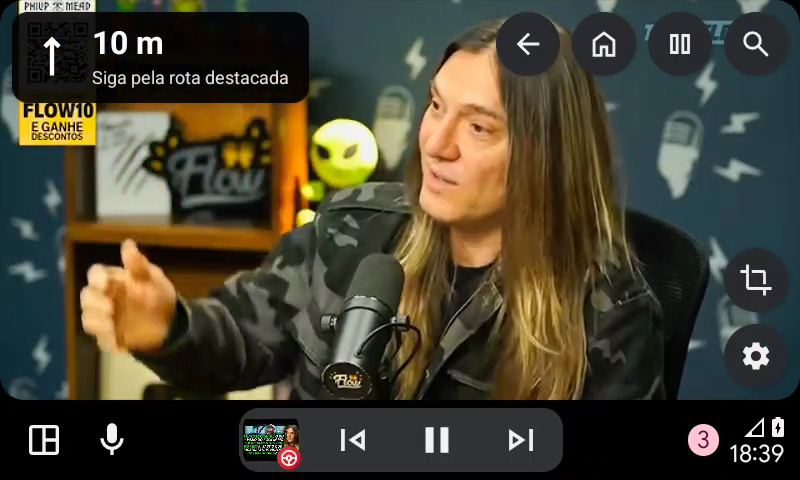
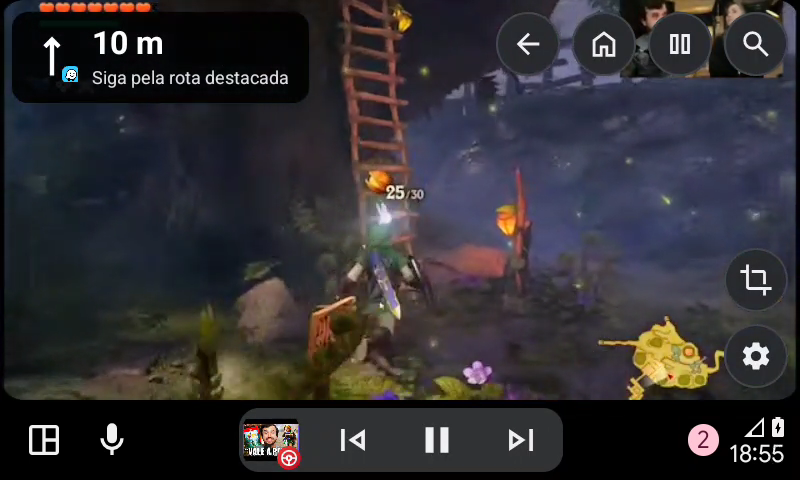
feat: badge the turn card with the app that sends the route
The Waze or Google Maps launcher icon, 18 dp in a black ring, sits on the maneuver icon's bottom corner, so a driver with both apps navigating knows whose instruction it is. New DHU screenshot for the readmes.

diff --git a/app/src/main/java/dev/begati/youtubeauto/YoutubeCarAppService.kt b/app/src/main/java/dev/begati/youtubeauto/YoutubeCarAppService.kt
@@ -845,6 +845,7 @@ class YoutubeScreen(ctx: CarContext) : Screen(ctx), SurfaceCallback {
     private var navView: View? = null
     private var navCard: View? = null
     private var navIcon: android.widget.ImageView? = null
+    private var navBadge: android.widget.ImageView? = null
     private var navDistance: android.widget.TextView? = null
     private var navText: android.widget.TextView? = null
     private var shownTurn: String? = null
@@ -1272,6 +1273,7 @@ class YoutubeScreen(ctx: CarContext) : Screen(ctx), SurfaceCallback {
         navView = null
         navCard = null
         navIcon = null
+        navBadge = null
         navDistance = null
         navText = null
         shownTurn = null
@@ -1454,7 +1456,22 @@ class YoutubeScreen(ctx: CarContext) : Screen(ctx), SurfaceCallback {
                 setColor(0xE0000000.toInt())
             }
             elevation = dp(4).toFloat()
-            addView(android.widget.ImageView(ctx).also { navIcon = it }, android.widget.LinearLayout.LayoutParams(dp(52), dp(52)).apply {
+            addView(FrameLayout(ctx).apply {
+                addView(android.widget.ImageView(ctx).also { navIcon = it }, FrameLayout.LayoutParams(dp(52), dp(52)))
+                // Source badge: 18 dp app icon in a 2 dp ring of the card's color, so it reads apart from the arrow.
+                addView(android.widget.ImageView(ctx).also { navBadge = it }.apply {
+                    visibility = View.GONE
+                    setPadding(dp(2), dp(2), dp(2), dp(2))
+                    background = android.graphics.drawable.GradientDrawable().apply {
+                        shape = android.graphics.drawable.GradientDrawable.OVAL
+                        setColor(0xFF000000.toInt())
+                    }
+                }, FrameLayout.LayoutParams(dp(22), dp(22), android.view.Gravity.BOTTOM or android.view.Gravity.END).apply {
+                    rightMargin = -dp(4)
+                    bottomMargin = -dp(4)
+                })
+                clipChildren = false
+            }, android.widget.LinearLayout.LayoutParams(dp(52), dp(52)).apply {
                 marginEnd = dp(14)
             })
             addView(android.widget.LinearLayout(ctx).apply {
@@ -1499,6 +1516,10 @@ class YoutubeScreen(ctx: CarContext) : Screen(ctx), SurfaceCallback {
         // Maps' arrow is a one-color glyph tinted black (seen on the phone): white, like the app's own icons.
         navIcon?.imageTintList = android.content.res.ColorStateList.valueOf(android.graphics.Color.WHITE)
         if (icon != null) navIcon?.setImageIcon(icon) else navIcon?.setImageResource(maneuverIcon(maneuverOf(turn.maneuver)))
+        // Who sends the route: the app's own launcher icon, small, on the maneuver icon's corner.
+        val badge = runCatching { carContext.packageManager.getApplicationIcon(turn.app) }.getOrNull()
+        navBadge?.setImageDrawable(badge)
+        navBadge?.visibility = if (badge == null) View.GONE else View.VISIBLE
         val ease = android.view.animation.DecelerateInterpolator(2f)
         if (view.visibility == View.VISIBLE) {
             view.animate().cancel() // a hide still fading out (a quick remove + post) would end GONE
@@ -2053,7 +2074,8 @@ internal fun takeGestureHint(prefs: SharedPreferences, onWatch: Boolean, visible
 internal val NAV_APPS = setOf("com.waze", "com.google.android.apps.maps")
 
 // [icon] is the notification's large icon (Maps' turn arrow); Waze has none, so the words pick one (maneuverOf).
-internal data class NavInstruction(val distance: String, val maneuver: String, val icon: android.graphics.drawable.Icon? = null)
+// [app] is the package that posted it, shown as a badge on the maneuver icon.
+internal data class NavInstruction(val distance: String, val maneuver: String, val icon: android.graphics.drawable.Icon? = null, val app: String = "")
 
 internal fun navInstruction(pkg: String, category: String?, title: CharSequence?, text: CharSequence?): NavInstruction? {
     if (pkg !in NAV_APPS || category != "navigation") return null
@@ -2102,7 +2124,7 @@ class NavListener : android.service.notification.NotificationListenerService() {
             n.extras.getCharSequence(android.app.Notification.EXTRA_TITLE), n.extras.getCharSequence(android.app.Notification.EXTRA_TEXT),
         )
         // An update that is no longer an instruction ends it, like a removal.
-        if (i == null) navFeed.remove(sbn.key) ?: return else navFeed.post(sbn.key, i.copy(icon = n.getLargeIcon()))
+        if (i == null) navFeed.remove(sbn.key) ?: return else navFeed.post(sbn.key, i.copy(icon = n.getLargeIcon(), app = sbn.packageName))
         onNavChanged?.invoke()
     }
 

diff --git a/.specs/features/nav-instruction/spec.md b/.specs/features/nav-instruction/spec.md
@@ -32,7 +32,7 @@ instrução numa notificação no celular. Pedido do usuário: "faz isso" (desen
 | Em quais telas | Em toda tela do app no carro (feed, busca, vídeo), enquanto houver navegação | Navegação importa em qualquer tela | y - user: "Sempre que o app está na tela (Recomendado)" |
 | Ativação | Chave "Navegação na tela" no grupo Carro das configurações do celular; mexer nela sem acesso abre a tela de acesso a notificações do Android | Mesmo padrão do "só áudio" que pede GPS | y - user: "Chave nas Configurações (Recomendado)" |
 | Padrão e chave no carro | Chave ligada por padrão, também nas configurações do carro (`CAR_SETTINGS`) | Pedido no meio do build | y - user: "botar opção pra ligar e desativar isso no app também, e como padrão, ligado" |
-| Ligada sem acesso | No celular, o resumo da chave vira `summary_nav_access` e o toque abre a tela de acesso sem mudar a chave (no walk, desligar e abrir a tela fazia quem concedia o acesso voltar com a chave desligada); no carro, ligar a chave sem acesso mostra um `CarToast` com o mesmo aviso (o carro não abre telas do celular) | Padrão ligado não basta: o acesso só se concede no celular | n - default do agente |
+| Ligada sem acesso | No celular, a chave aparece desligada enquanto falta o acesso (ligada e sem acesso não faz nada); ligar abre a tela de acesso e mantém ligada; desligar sempre funciona (Verifier F7: a versão anterior não deixava desligar sem conceder); no carro, ligar a chave sem acesso mostra um `CarToast` com o mesmo aviso (o carro não abre telas do celular) | Padrão ligado não basta: o acesso só se concede no celular | n - default do agente |
 | README | Recurso citado em Features, com print do card no carro, e como conceder o acesso | Pedido | y - user: "faz uns prints do curva a curva também, acho que vale citar isso no readme como recurso" |
 | Apps lidos | Waze (`com.waze`) e Google Maps (`com.google.android.apps.maps`) | Pedido | y - user: "Waze e Google Maps" |
 | Qual notificação | Do pacote acima com `category=navigation`; distância = `android.title`, manobra = `android.text` | Formato visto no Waze (canal "Waze Navigation Instructions"); o do Maps não foi conferido e é verificado no walk | n - default do agente |
@@ -64,7 +64,7 @@ instrução numa notificação no celular. Pedido do usuário: "faz isso" (desen
 2. WHEN essa notificação é removida (fim da navegação) THEN the app SHALL esconder a instrução
 3. IF a notificação vem de outro pacote, não tem `category=navigation`, ou tem título e texto vazios THEN the app SHALL ignorá-la
 4. WHILE a chave "Navegação na tela" está desligada the app SHALL não mostrar instrução nenhuma
-5. WHEN o usuário muda a chave "Navegação na tela" no celular e o app não tem acesso a notificações THEN the app SHALL abrir a tela de acesso a notificações do Android
+5. WHEN o usuário liga a chave "Navegação na tela" no celular e o app não tem acesso a notificações THEN the app SHALL abrir a tela de acesso a notificações do Android
 6. WHERE a notificação traz `largeIcon` the app SHALL mostrar esse ícone ao lado do texto
 7. The instrução SHALL ficar visível também por cima da capa "só áudio" e da tela offline, e SHALL não receber toques
 8. WHEN o celular está em qualquer um dos 7 idiomas do app THEN the app SHALL mostrar o título e o resumo da chave nesse idioma
@@ -73,7 +73,9 @@ instrução numa notificação no celular. Pedido do usuário: "faz isso" (desen
 11. The chave "Navegação na tela" SHALL vir ligada numa instalação nova
 12. WHEN o motorista usa a chave "Navegação na tela" nas configurações do carro THEN the app SHALL ligar ou desligar a mesma chave do celular
 13. IF o motorista liga a chave no carro e o app não tem acesso a notificações THEN the app SHALL mostrar um `CarToast` com o texto `nav_access_needed`
-14. WHILE a chave está ligada e o app não tem acesso a notificações the app SHALL mostrar `summary_nav_access` ("Sem acesso às notificações: toque para permitir") como resumo da chave no celular, e um toque na chave SHALL abrir a tela de acesso sem mudar a chave
+14. WHILE o app não tem acesso a notificações the app SHALL mostrar a chave do celular desligada, e WHEN o usuário a desliga THEN the app SHALL desligá-la sem pedir acesso
+15. WHEN a chave muda no carro ou no celular com a tela do app aberta THEN the app SHALL mostrar ou esconder a instrução na hora, sem esperar outra notificação (Verifier F1)
+16. WHEN a instrução aparece THEN the app SHALL mostrar o ícone do app que mandou a rota (Waze ou Google Maps), 18 dp, como selo no canto inferior do ícone da manobra
 
 **Independent Test**: no DHU, com a chave ligada e o acesso concedido, iniciar uma rota no Waze e abrir um vídeo no app mostra a instrução no canto superior esquerdo; encerrar a rota a esconde.
 
@@ -106,8 +108,10 @@ instrução numa notificação no celular. Pedido do usuário: "faz isso" (desen
 | TURN-14 | P1 (AC 13) | Execute | Pending |
 | TURN-15 | P1 (AC 14) | Execute | Pending |
 | TURN-16 | README | Execute | Pending |
+| TURN-17 | P1 (AC 15), Verifier F1 | Execute | Pending |
+| TURN-18 | P1 (AC 16), selo de origem | Execute | Pending |
 
-**Coverage:** 16 total, 0 mapped to tasks, 16 unmapped ⚠
+**Coverage:** 18 total, 0 mapped to tasks, 16 unmapped ⚠
 
 ---
 
@@ -154,8 +158,17 @@ Proof: run unit | TURN-12 the switch is on by default PASSED
 **C14** - Chave na lista do carro (TURN-13, AC 12)
 Proof: run unit | CSET-01 car settings are quality speed captions navigation PASSED
 
-**C15** - Carro sem acesso: toast `nav_access_needed`; celular sem acesso: resumo `summary_nav_access`, toque abre o acesso sem mudar a chave (TURN-14, TURN-15, AC 13, AC 14)
-Proof: walk - acesso revogado: ligar a chave no DHU mostra o toast; o resumo da chave no celular mostra o aviso
+**C15** - Carro sem acesso: toast `nav_access_needed` (TURN-14, AC 13)
+Proof: walk - acesso revogado: ligar a chave no DHU mostra o toast
+
+**C18** - Celular sem acesso: chave aparece desligada (TURN-15, AC 14)
+Proof: run unit | TURN-15 the phone switch reads on only with notification access PASSED
+
+**C19** - Mudar a chave com o card na tela o esconde ou mostra na hora (TURN-17, AC 15)
+Proof: walk - DHU com card: desligar a chave no carro esconde o card na hora; religar o mostra; o mesmo pela chave do celular
+
+**C20** - Selo do app de origem no ícone da manobra (TURN-18, AC 16)
+Proof: walk - DHU: screenshot do card do Waze com o selo do Waze e do Maps com o selo do Maps
 
 **C16** - README cita o recurso com print e o acesso (TURN-16)
 Proof: walk - README.md e README.pt-BR.md com a linha em Features e o print `docs/car-turn.png`
@@ -166,8 +179,8 @@ Proof: walk - celular: ligar "Navegação na tela" abre a tela de acesso a notif
 **C6** - `largeIcon` da notificação aparece ao lado do texto (TURN-06, AC 6)
 Proof: walk - DHU com rota no Google Maps: screenshot do overlay com a seta do Maps
 
-**C7** - Instrução por cima da capa "só áudio" e da tela offline, sem receber toques (TURN-07, AC 7)
-Proof: walk - DHU: screenshot do overlay sobre a capa "só áudio"; toque no overlay chega à página
+**C7** - Instrução por cima da tela offline, sem receber toques; por cima da capa "só áudio" pela ordem das camadas (TURN-07, AC 7)
+Proof: walk - DHU: card sobre a tela preta com a rede desligada; toque em "Podcasts" debaixo do card abre o chip. Capa "só áudio" não alcançada (pede GPS em movimento): o card é o último filho do frame, sem elevação nos irmãos (Verifier F6)
 
 **C8** - Título e resumo da chave nos 7 idiomas (TURN-08, AC 8)
 Proof: run unit | all languages have the same strings as English PASSED
@@ -191,6 +204,6 @@ Proof: walk - DHU com rota no Waze: screenshot do overlay sobre o vídeo; encerr
 
 ## Handoff
 
-**Settled mid-build:** user: "faz uns prints do curva a curva também, acho que vale citar isso no readme como recurso... botar opção pra ligar e desativar isso no app também, e como padrão, ligado." (AC 11 a 14, TURN-16)
+**Settled mid-build:** user: "faz uns prints do curva a curva também, acho que vale citar isso no readme como recurso... botar opção pra ligar e desativar isso no app também, e como padrão, ligado." (AC 11 a 14, TURN-16); user: "será que vale um ícone discreto ou texto indicando quem tá mandando a rota? se é waze ou google maps, use impeccable" + escolha "Selo no ícone (Recomendado)": ícone do app de origem, 18 dp, no canto inferior do ícone da manobra (TURN-18)
 **Dispatched:** Verifier at HEAD ca7cddd (diff dd7b62c..ca7cddd); no screens sub-agent (no capture)
-**Walked:** 2026-11-18, orchestrator, DHU 800x480 + phone 0091479724, debug build over the previous install. Reach: Android Auto connected, route started on the car (Waze "Dirija agora" > Paróquia da Glória, or Maps by `google.navigation:` intent), then the app from the rail. C11: Waze card "10 m · Siga pela rota destacada" with the straight arrow over the feed, the split view and a playing video (`docs/car-turn.png`); ending the route in Waze hid it. C6: Maps card with Maps' own arrow drawn white, text "Siga em direção à R. Roberto Stiegert" (found TURN-11 here: Maps puts it in the title); `force-stop` of Maps hid it. C7: a tap on "Podcasts" under the card opened that chip (touches pass through); the card stayed over the black screen with the network off. Not reached: the audio-only cover (needs GPS speed); the card is the last child of the frame, above the cover. C5/C15: phone switch tap without access opens Android's access screen and keeps the switch on; summary "Sem acesso às notificações: toque para permitir"; granting there brings the card back in the car at once. Car switch on without access shows the toast "Permita o acesso às notificações no celular: Configurações do YT Auto > Navegação na tela". C17: `cmd notification disallow_listener` with the card up hid it (found here; fixed in 7f972cd). Waze posts the notification only with Android Auto connected and Waze not in front, and not at all while it says "Sem sinal GPS" until it is restarted.
+**Walked:** 2026-11-18, orchestrator, DHU 800x480 + phone 0091479724, debug build over the previous install. Reach: Android Auto connected, route started on the car (Waze "Dirija agora" > Paróquia da Glória, or Maps by `google.navigation:` intent), then the app from the rail. C11: Waze card "10 m · Siga pela rota destacada" with the straight arrow over the feed, the split view and a playing video (`docs/car-turn.png`); ending the route in Waze hid it. C6: Maps card with Maps' own arrow drawn white, text "Siga em direção à R. Roberto Stiegert" (found TURN-11 here: Maps puts it in the title); `force-stop` of Maps hid it. C7: a tap on "Podcasts" under the card opened that chip (touches pass through); the card stayed over the black screen with the network off. Not reached: the audio-only cover (needs GPS speed); the card is the last child of the frame, above the cover. C5/C15: phone switch tap without access opens Android's access screen and keeps the switch on; summary "Sem acesso às notificações: toque para permitir"; granting there brings the card back in the car at once. Car switch on without access shows the toast "Permita o acesso às notificações no celular: Configurações do YT Auto > Navegação na tela". C17: `cmd notification disallow_listener` with the card up hid it (found here; fixed in 7f972cd). Round 2 (after the Verifier, build with the source badge): C20 Maps card with the Maps pin badge on the arrow's corner, Waze card "10 m · Siga pela rota destacada" with the Waze badge (new `docs/car-turn.png`); C19 car switch off hid the Maps card at once, phone switch back on showed it again at once. Found here: the (?U) regex flag from the F3 fix crashes the app on Android's ICU at class load (fixed in 84bb4b5). Waze posts the notification only with Android Auto connected and Waze not in front, and not at all while it says "Sem sinal GPS" until it is restarted.
